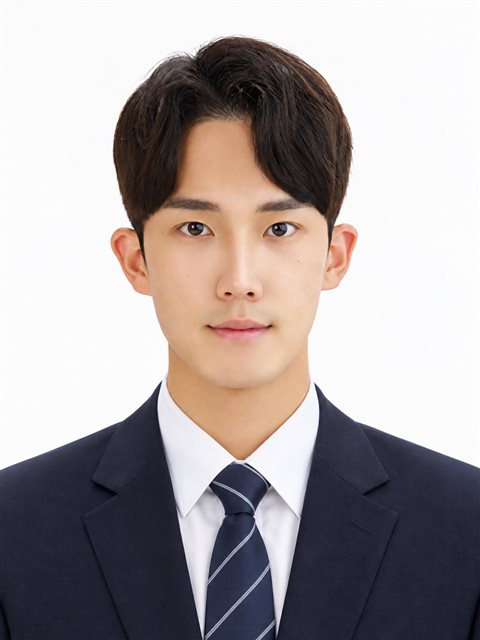
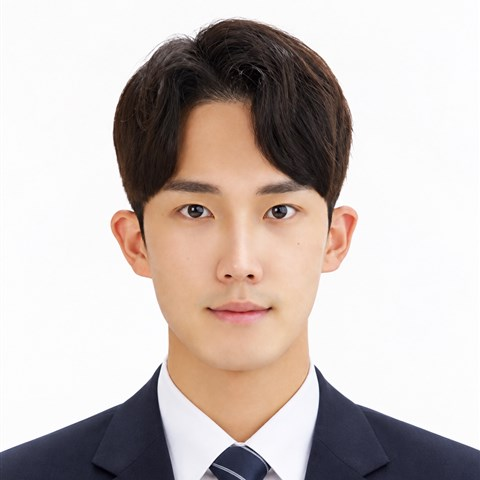
Fix ID photo crop, add test photo

diff --git a/index.html b/index.html
@@ -5,7 +5,7 @@
 <meta name="viewport" content="width=device-width,initial-scale=1">
 <title>백승빈 · 연구 포트폴리오</title>
 <meta name="description" content="한국항공대학교 대학원 석사과정 백승빈의 연구 포트폴리오. 나선형 포트 고체 연료 연구와 추진기관 개발 경험.">
-<link rel="stylesheet" href="assets/style.css">
+<link rel="stylesheet" href="assets/style.css?v=2">
 </head>
 <body>
 <header class="site"><div class="in">
@@ -46,6 +46,11 @@
     <p>덕티드 로켓용 가스발생기에서, 연료 길이를 늘리지 않고 연료 과농 가스 조건(O/F비 0.3~0.8)을 만족하는 작동 범위를 넓힐 수 있는가를 묻고, 나선형 포트와 새 제작법으로 답했습니다.</p>
     <p><a class="btn solid" href="research.html">연구 자세히 보기</a></p>
   </div>
+
+  <figure class="shot">
+    <img src="assets/hero-fire.jpg" width="537" height="286" alt="시험 장치에서 불꽃이 뿜어져 나오는 연소시험 장면">
+    <figcaption>연소시험 장면</figcaption>
+  </figure>
 
   <h2>할 수 있는 일</h2>
   <div class="cards">

diff --git a/assets/style.css b/assets/style.css
@@ -21,6 +21,9 @@ p{margin:0 0 12px}
 .hero .photo{width:176px;height:176px;object-fit:cover;object-position:50% 12%;border-radius:12px;border:1px solid var(--line);background:#fff;margin-top:22px}
 .hero .name{font-size:15px;color:var(--accent);font-weight:700;margin-bottom:6px}
 .hero .statement{font-size:24px;line-height:1.55;font-weight:700;margin:0 0 12px}
+.shot{margin:18px 0 0;max-width:440px}
+.shot img{display:block;width:100%;height:auto;border-radius:12px;border:1px solid var(--line)}
+.shot figcaption{font-size:14px;color:var(--sub);margin-top:6px}
 .stats{display:grid;grid-template-columns:repeat(3,1fr);gap:12px;margin:22px 0 8px;padding:0;list-style:none}
 .stats li{background:var(--card);border:1px solid var(--line);border-radius:12px;padding:12px 14px}
 .stats b{display:block;font-size:26px;line-height:1.3;color:var(--accent)}

diff --git a/projects.html b/projects.html
@@ -5,7 +5,7 @@
 <meta name="viewport" content="width=device-width,initial-scale=1">
 <title>프로젝트·활동 · 백승빈</title>
 <meta name="description" content="VTVL, 500 N급 액체 추진기관, 로켓동아리, 학부 연소시험, 방위사업청 서포터즈, 조교, 교육 봉사.">
-<link rel="stylesheet" href="assets/style.css">
+<link rel="stylesheet" href="assets/style.css?v=2">
 </head>
 <body>
 <header class="site"><div class="in">

diff --git a/research.html b/research.html
@@ -5,7 +5,7 @@
 <meta name="viewport" content="width=device-width,initial-scale=1">
 <title>대표 연구 · 백승빈</title>
 <meta name="description" content="나선형 포트 파라핀 고체 연료 연구: 연구 질문, 한 일, 알아낸 것, 다음 할 것.">
-<link rel="stylesheet" href="assets/style.css">
+<link rel="stylesheet" href="assets/style.css?v=2">
 </head>
 <body>
 <header class="site"><div class="in">

diff --git a/record.html b/record.html
@@ -5,7 +5,7 @@
 <meta name="viewport" content="width=device-width,initial-scale=1">
 <title>실적 · 백승빈</title>
 <meta name="description" content="논문, 학술대회 발표, 특허, 연구과제, 수상 목록.">
-<link rel="stylesheet" href="assets/style.css">
+<link rel="stylesheet" href="assets/style.css?v=2">
 </head>
 <body>
 <header class="site"><div class="in">

diff --git a/work.html b/work.html
@@ -5,7 +5,7 @@
 <meta name="viewport" content="width=device-width,initial-scale=1">
 <title>작업물 · 백승빈</title>
 <meta name="description" content="야외 실험 가능 시간 대시보드(연습 작업).">
-<link rel="stylesheet" href="assets/style.css">
+<link rel="stylesheet" href="assets/style.css?v=2">
 </head>
 <body>
 <header class="site"><div class="in">
